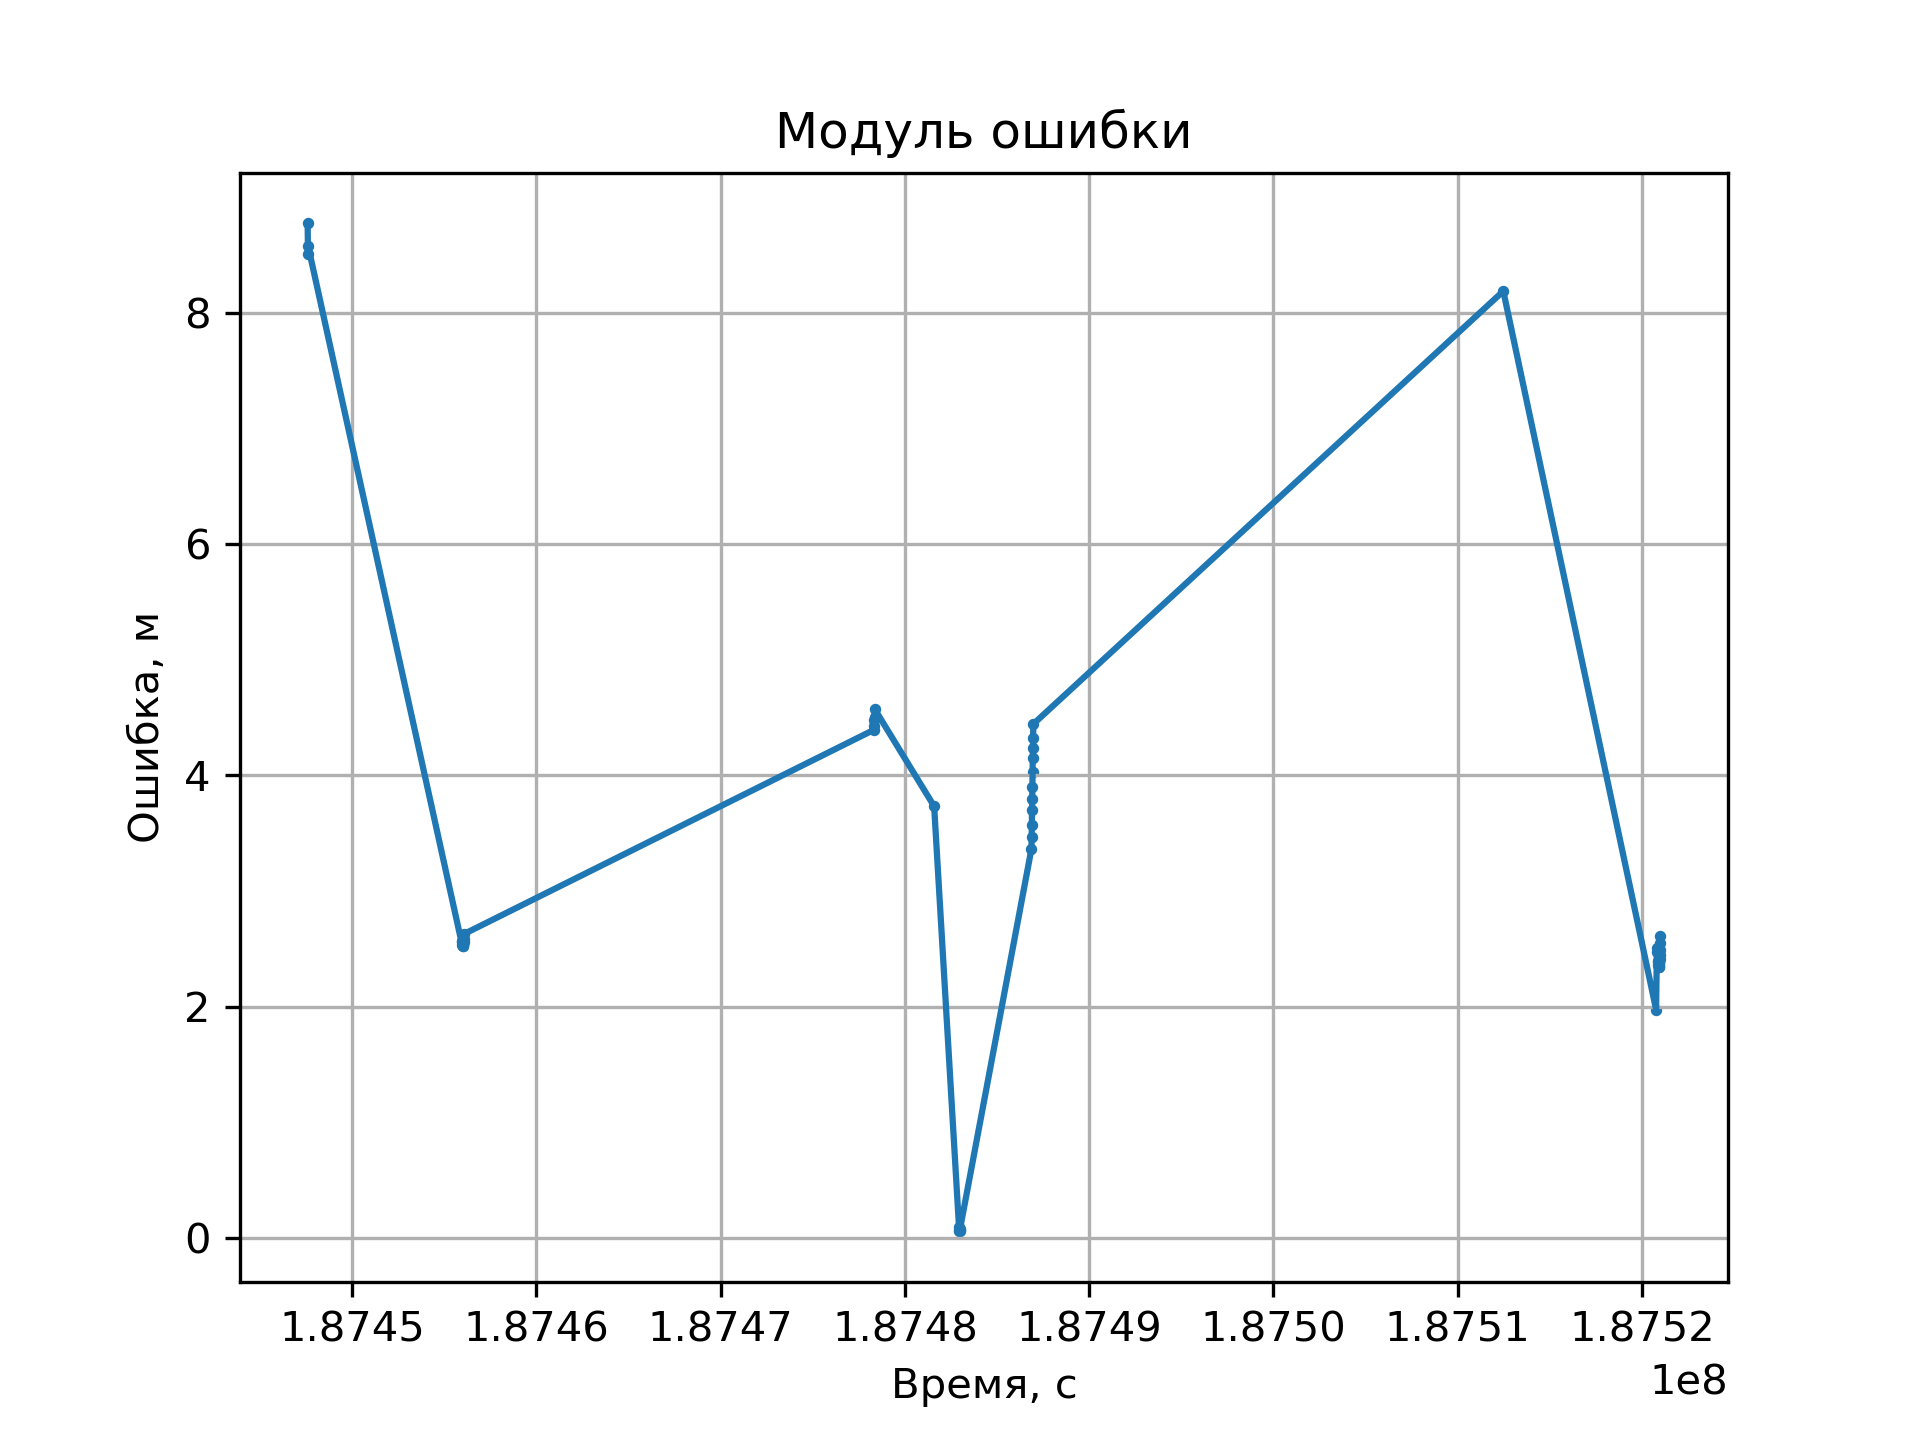
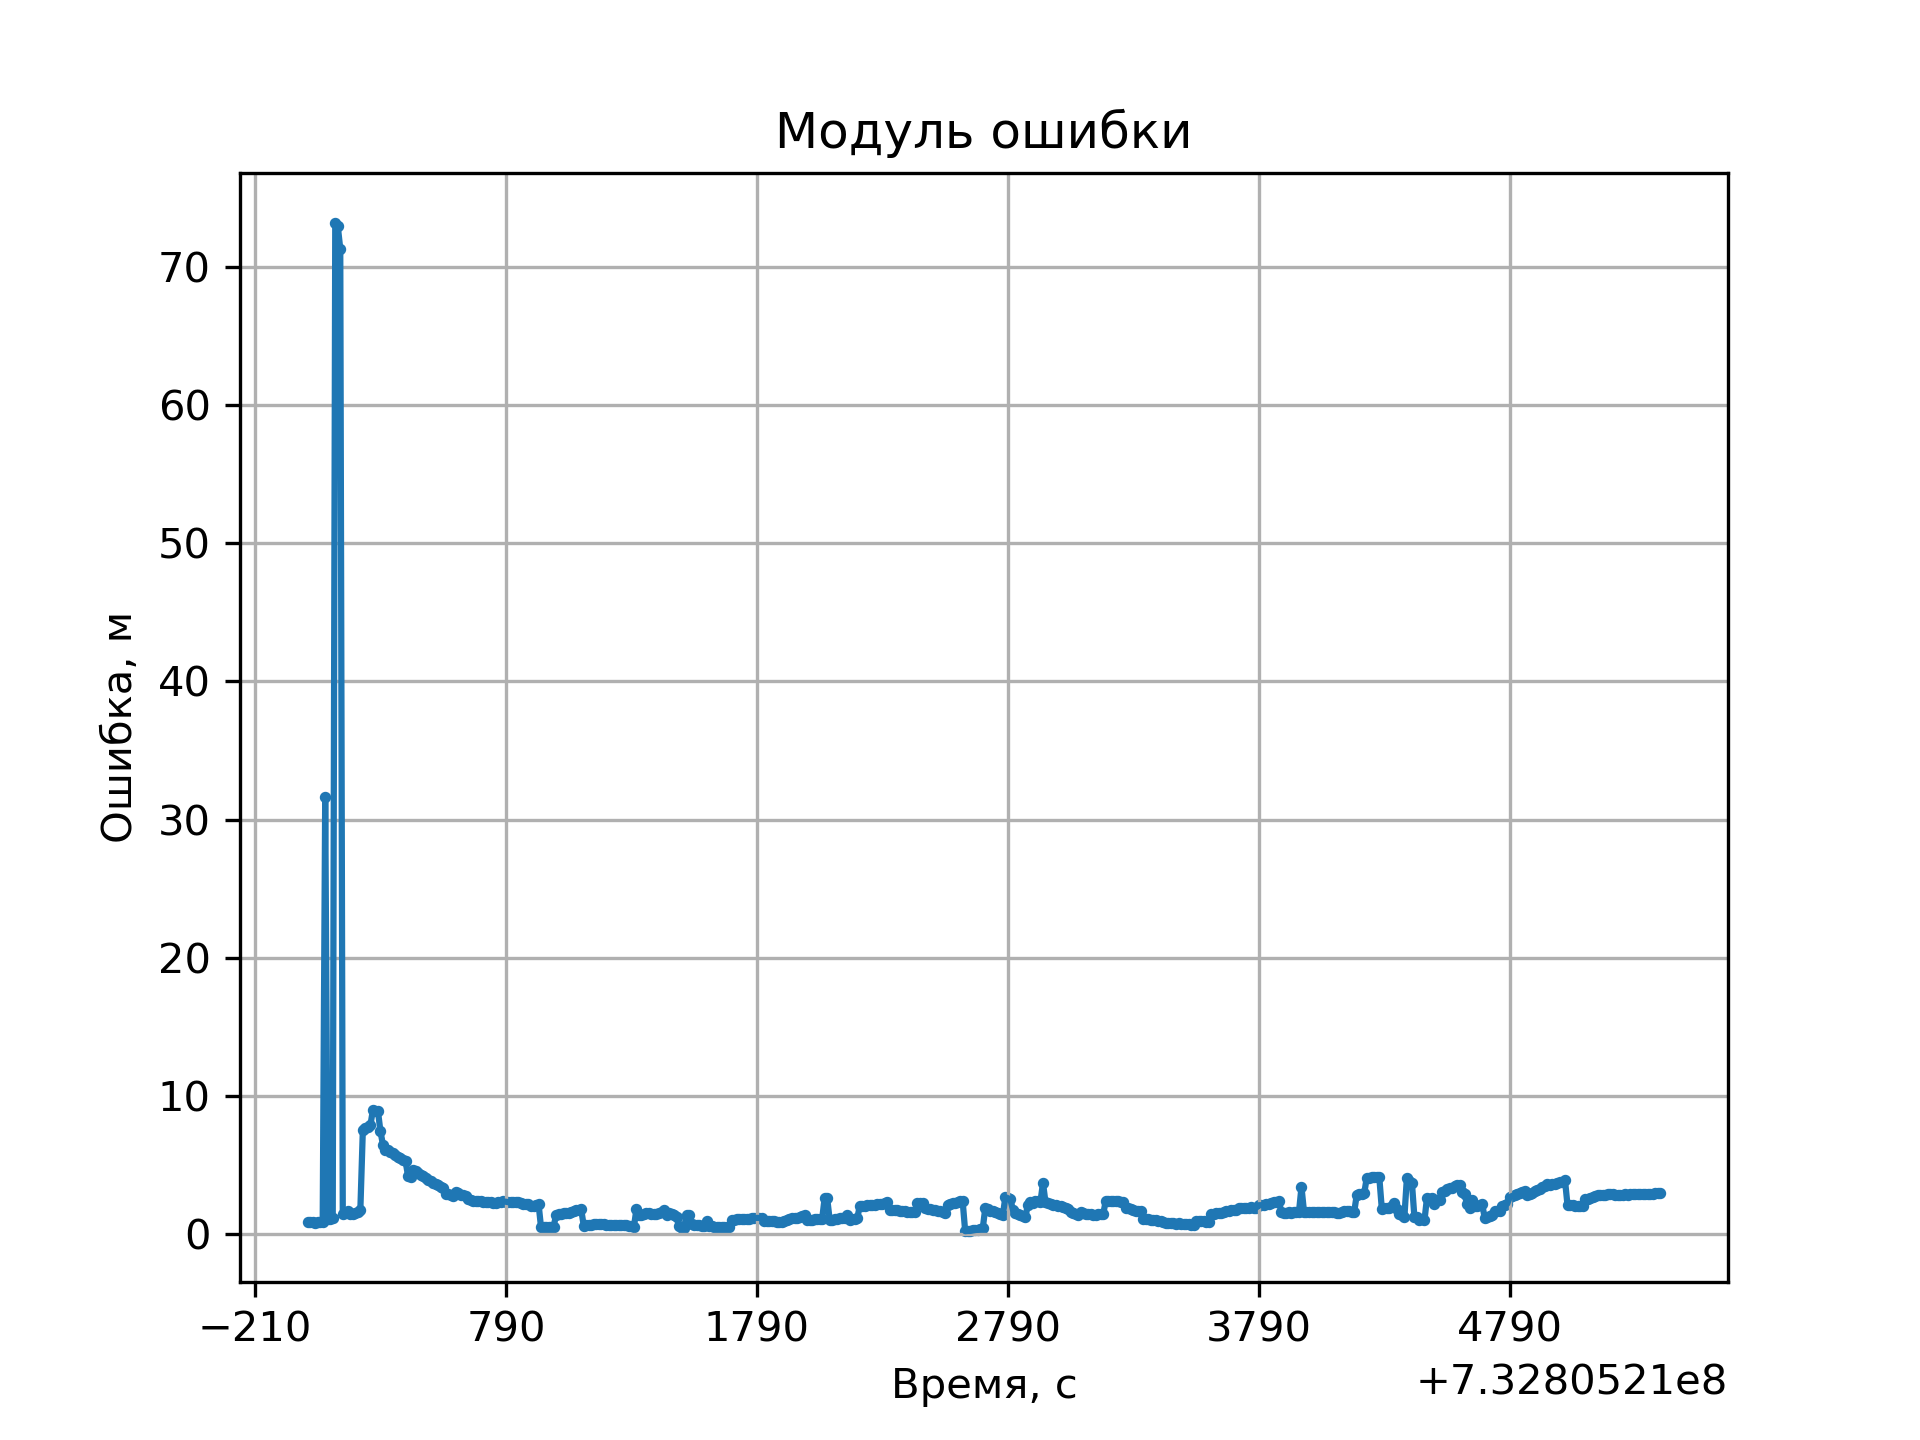
sync

diff --git a/src/SatNav.cpp b/src/SatNav.cpp
@@ -40,6 +40,10 @@ void SatNav::solve(char et, double ti, double tf) {
             raw_mg_cnt++;
         }
 
+        if (raw_mg.time < 732801600 + 3600 || raw_mg.time > 732801600 + 3600 + 5400) {
+            continue;
+        }
+
         std::vector<RefinedMeasurement> ref_ms(32);
 
         for (unsigned prn_id = 1; prn_id <= 32; prn_id++) {
@@ -61,18 +65,18 @@ void SatNav::solve(char et, double ti, double tf) {
 
         SolutionState solution = calculate_solution(ref_mg);
 
-        if (error_type != 'L') {
-            if (solution.is_solved) {
-                std::vector<unsigned> low = check_low(solution, ref_mg);
-                if (low.size() > 0) {
-                    for (unsigned prn_id : low) {
-                        unsigned prn_index = prn_id - 1;
-                        ref_mg.refined_measurements[prn_index].is_present = false;
-                    }
-                    solution = calculate_solution(ref_mg);
-                }
-            }
-        }
+        // if (error_type != 'L') {
+        //     if (solution.is_solved) {
+        //         std::vector<unsigned> low = check_low(solution, ref_mg);
+        //         if (low.size() > 0) {
+        //             for (unsigned prn_id : low) {
+        //                 unsigned prn_index = prn_id - 1;
+        //                 ref_mg.refined_measurements[prn_index].is_present = false;
+        //             }
+        //             solution = calculate_solution(ref_mg);
+        //         }
+        //     }
+        // }
 
         solution_states.push_back(solution);
     }
@@ -91,17 +95,17 @@ bool SatNav::check_raw(const RawMeasurement& raw_m) {
         return false;
     }
 
-    if (error_type != 'S') {
-        if (raw_m.L1_SNR < SNR_threshold || raw_m.L2_SNR < SNR_threshold) {
-            return false;
-        }
-    }
+    // if (error_type != 'S') {
+    //     if (raw_m.L1_SNR < SNR_threshold || raw_m.L2_SNR < SNR_threshold) {
+    //         return false;
+    //     }
+    // }
 
-    if (error_type != 'F') {
-        if (check_fading(raw_m)) {
-            return false;
-        }
-    }
+    // if (error_type != 'F') {
+    //     if (check_fading(raw_m)) {
+    //         return false;
+    //     }
+    // }
 
     return true;
 }

diff --git a/src/main.cpp b/src/main.cpp
@@ -11,20 +11,21 @@ int main() {
     // GPSHandler handler = GPSHandler("brdc1410.20n"); SatNav problem = SatNav("GNV1B_2020-05-20_C_04.txt", "GPS1B_2020-05-20_C_04.txt", handler);
     // GPSHandler handler = GPSHandler("brdc0890.21n"); SatNav problem = SatNav("GNV1B_2021-03-30_C_04.txt", "GPS1B_2021-03-30_C_04.txt", handler);
     // GPSHandler handler = GPSHandler("brdc2610.22n"); SatNav problem = SatNav("GNV1B_2022-09-18_C_04.txt", "GPS1B_2022-09-18_C_04.txt", handler);
-    // GPSHandler handler = GPSHandler("brdc0820.23n"); SatNav problem = SatNav("GNV1B_2023-03-23_C_04.txt", "GPS1B_2023-03-23_C_04.txt", handler);
+    GPSHandler handler = GPSHandler("brdc0820.23n"); SatNav problem = SatNav("GNV1B_2023-03-23_C_04.txt", "GPS1B_2023-03-23_C_04.txt", handler);
     // GPSHandler handler = GPSHandler("brdc0940.24n"); SatNav problem = SatNav("GNV1B_2024-04-03_C_04.txt", "GPS1B_2024-04-03_C_04.txt", handler);
 
-    // Plotter plotter(problem, 0.0, 0.0);
-    // plotter.plot_errors_norm();
-    // plotter.plot_errors_pr();
+    Plotter plotter(problem, 0.0, 0.0);
+    plotter.plot_errors_norm();
+    plotter.plot_errors_pr();
+    plotter.plot_gdop();
 
-    GPSHandler handler = GPSHandler("brdc3440.05n"); 
-    SatNav problem1 = SatNav("GNV1B_2005-12-10_A_02.dat", "GPS1B_2005-12-10_A_02.dat", handler);
-    SatNav problem2 = SatNav("GNV1B_2005-12-10_B_02.dat", "GPS1B_2005-12-10_B_02.dat", handler);
+    // GPSHandler handler = GPSHandler("brdc3440.05n"); 
+    // SatNav problem1 = SatNav("GNV1B_2005-12-10_A_02.dat", "GPS1B_2005-12-10_A_02.dat", handler);
+    // SatNav problem2 = SatNav("GNV1B_2005-12-10_B_02.dat", "GPS1B_2005-12-10_B_02.dat", handler);
 
-    SatNavRel problem_rel(problem1, problem2);
-    PlotterRel plotter(problem_rel, 0.0, 0.0);
-    plotter.plot_errors_norm(0, 5);
+    // SatNavRel problem_rel(problem1, problem2);
+    // PlotterRel plotter(problem_rel, 0.0, 0.0);
+    // plotter.plot_errors_norm(0, 5);
 
     return 0;
 }

diff --git a/src/Plotter.cpp b/src/Plotter.cpp
@@ -68,6 +68,29 @@ void Plotter::plot_errors_pr(double ymin, double ymax) {
     run_py_plotter(filename);
 }
 
+void Plotter::plot_gdop(double ymin, double ymax) {
+std::string filename = "gdop";
+    std::ofstream file;
+    file.open("../results/" + filename + ".csv", std::fstream::out);
+
+    file << "GDOP" << '\t' << "Время, с" << '\t' << "GDOP" << std::endl;
+    file << ymin << '\t' << ymax << std::endl;
+    
+    for (const auto& ss : problem.get_solution_states()) {
+        if (!ss.is_solved) continue;
+
+        unsigned time = ss.time;
+
+        double gdop = ss.GDOP;
+
+        file << time << sep << gdop << std::endl;
+    }
+
+    file.close();
+
+    run_py_plotter(filename);
+}
+
 void Plotter::plot_errors_by_type(char error_type, double ymin, double ymax) {
     problem_copy.solve('I', ti, tf);
 

diff --git a/src/Plotter.hpp b/src/Plotter.hpp
@@ -14,6 +14,7 @@ public:
     Plotter(const SatNav& sn, double ti = 0, double tf = 0);
     void plot_errors_norm(double ymin = 0, double ymax = 0);
     void plot_errors_pr(double ymin = 0, double ymax = 0);
+    void plot_gdop(double ymin = 0, double ymax = 0);
     void plot_errors_by_type(char error_type, double ymin = 0, double ymax = 0);
 
     void plot_map_norm(const std::string& mode, double threshold = 0);

diff --git a/src/SatNav.hpp b/src/SatNav.hpp
@@ -57,7 +57,7 @@ private:
     const double C1 = 2.54572778016;
     const double C2 = -1.54572778016;
 
-    const double GDOP0 = 5;
+    const double GDOP0 = 500000;
     const double mask_angle = 5;
     const int fadeout_time = 20;
     const double SNR_threshold = 30;
